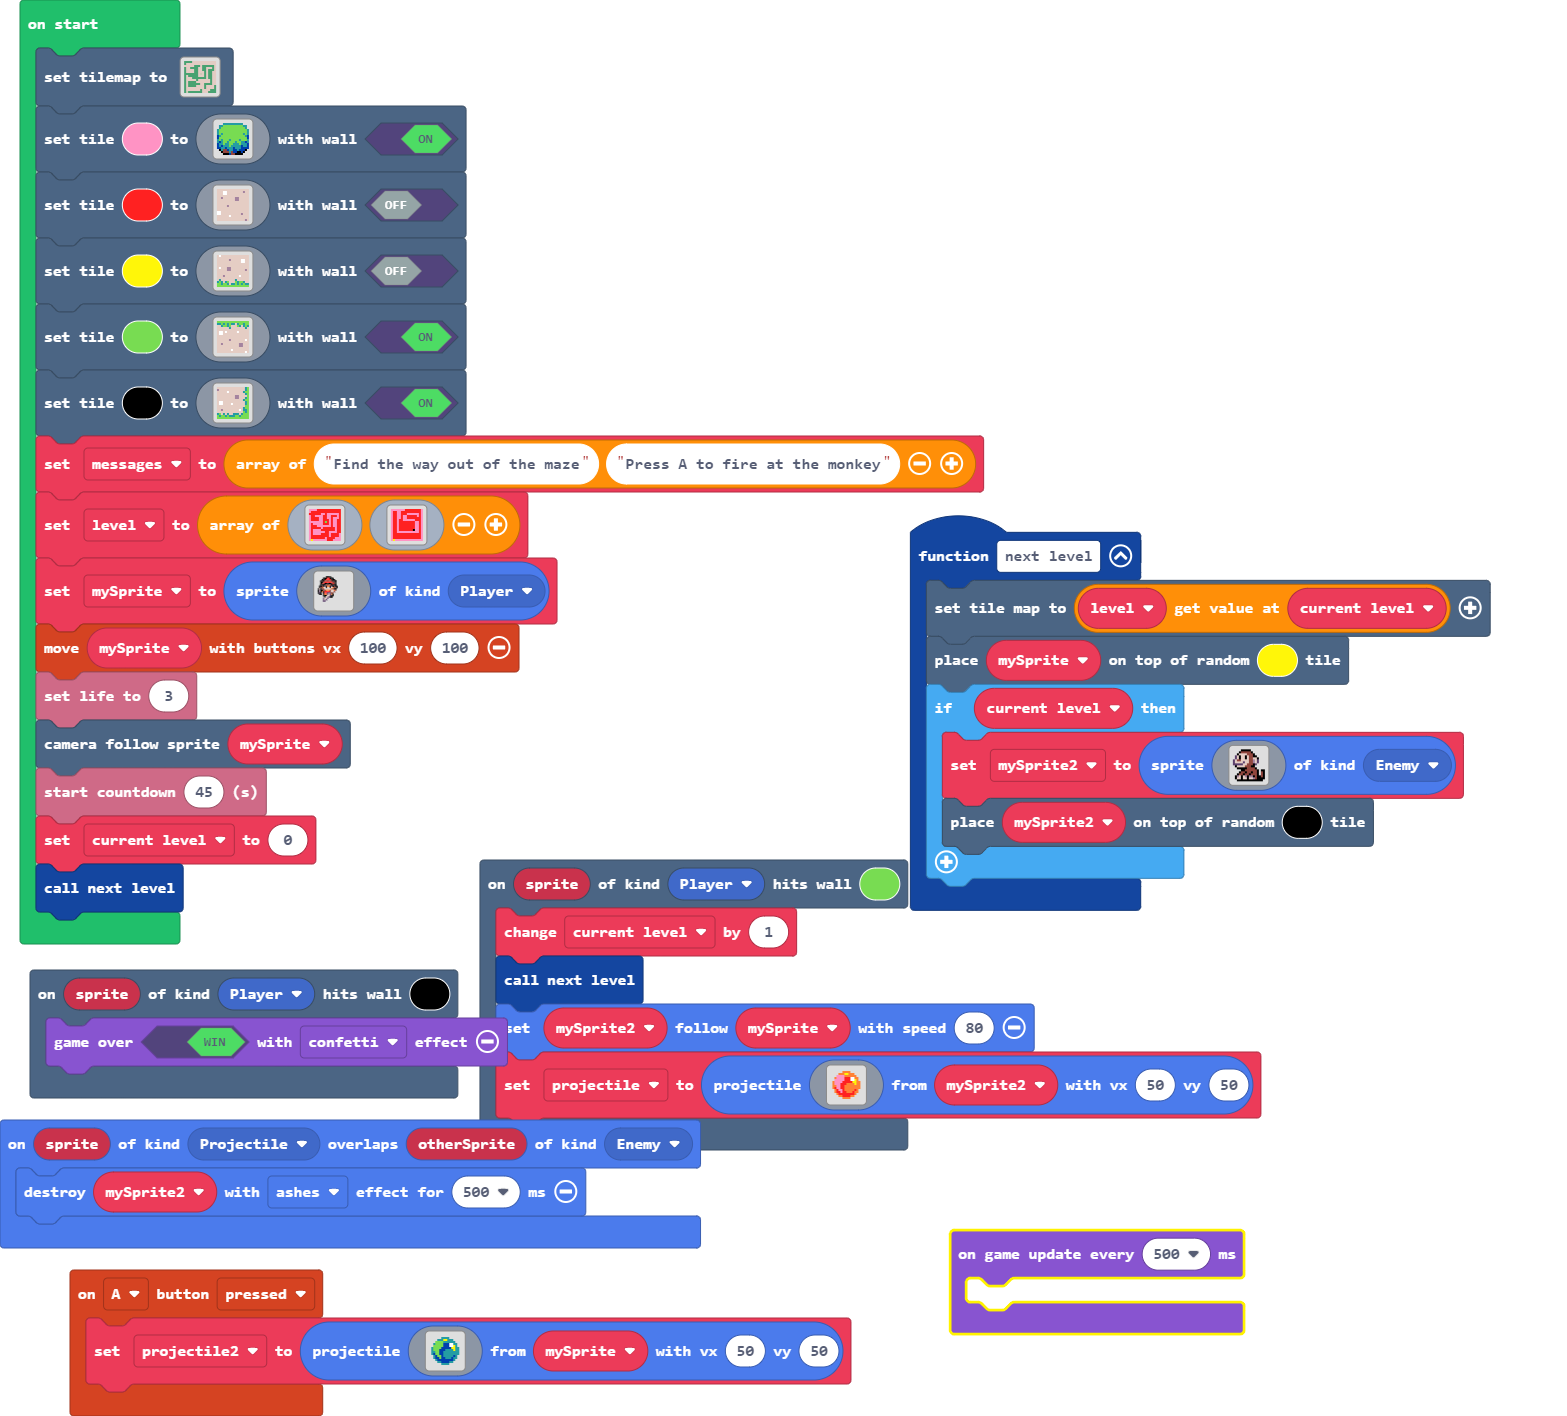
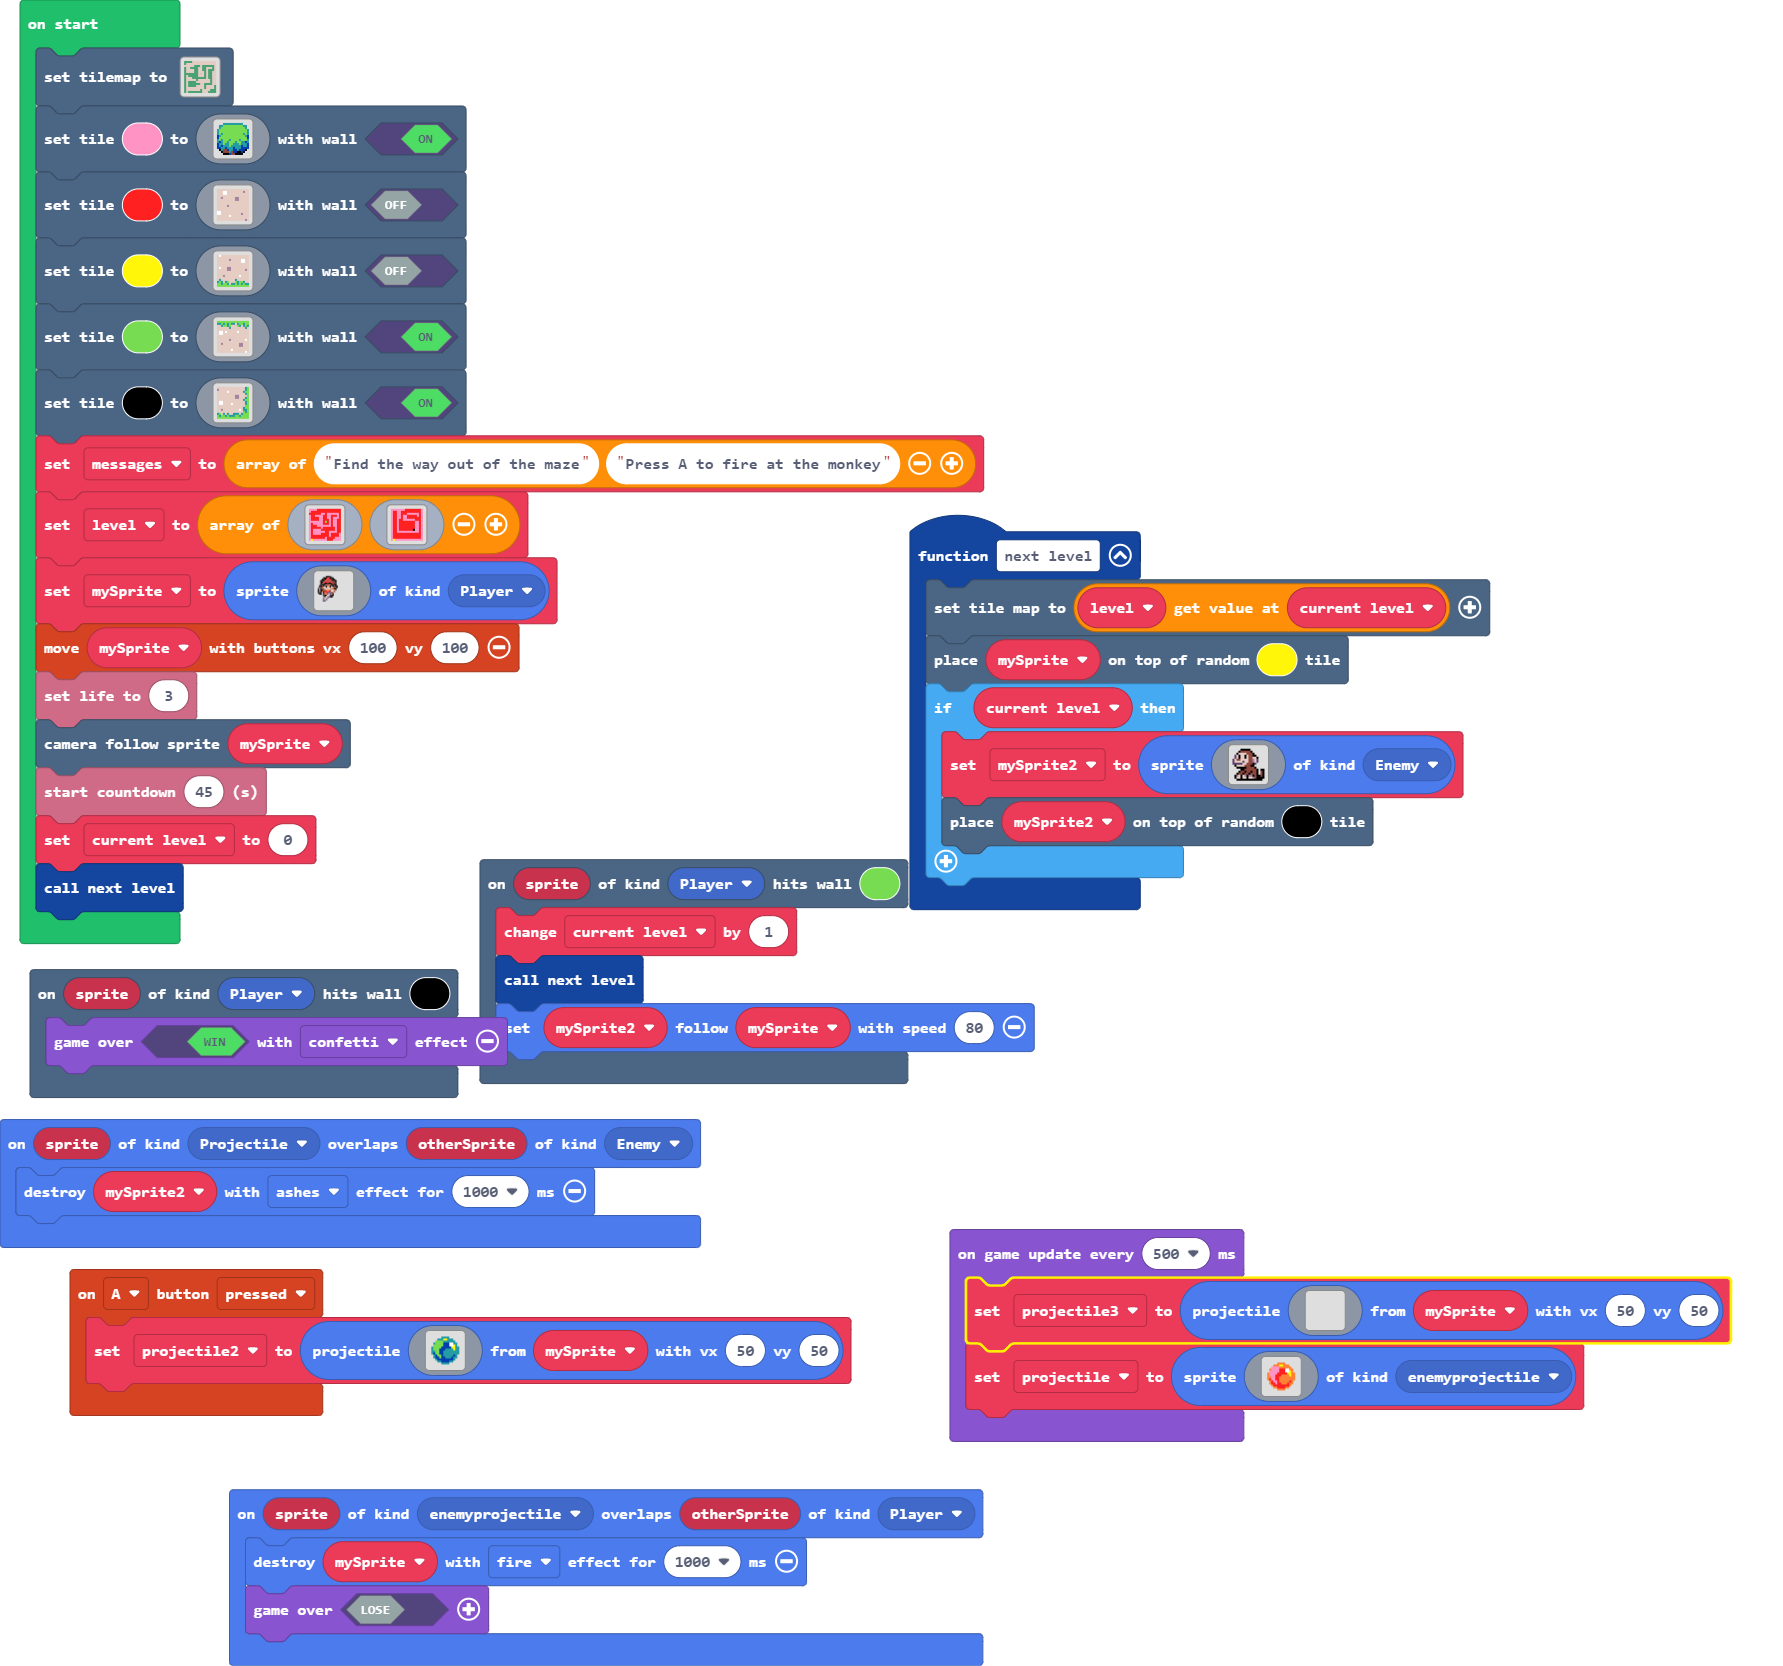
Update main.blocks, main.ts, images.g.jres, images.g.ts

diff --git a/main.ts b/main.ts
@@ -1,3 +1,6 @@
+namespace SpriteKind {
+    export const enemyprojectile = SpriteKind.create()
+}
 controller.A.onEvent(ControllerButtonEvent.Pressed, function () {
     projectile2 = sprites.createProjectileFromSprite(img`
         . . . . . . . . . . . . . . . . 
@@ -22,24 +25,6 @@ scene.onHitTile(SpriteKind.Player, 7, function (sprite) {
     current_level += 1
     next_level()
     mySprite2.follow(mySprite, 80)
-    projectile = sprites.createProjectileFromSprite(img`
-        . . . . . . . . . . . . . . . . 
-        . . . . . . 4 4 4 4 . . . . . . 
-        . . . . 4 4 4 5 5 4 4 4 . . . . 
-        . . . 3 3 3 3 4 4 4 4 4 4 . . . 
-        . . 4 3 3 3 3 2 2 2 1 1 4 4 . . 
-        . . 3 3 3 3 3 2 2 2 1 1 5 4 . . 
-        . 4 3 3 3 3 2 2 2 2 2 5 5 4 4 . 
-        . 4 3 3 3 2 2 2 4 4 4 4 5 4 4 . 
-        . 4 4 3 3 2 2 4 4 4 4 4 4 4 4 . 
-        . 4 2 3 3 2 2 4 4 4 4 4 4 4 4 . 
-        . . 4 2 3 3 2 4 4 4 4 4 2 4 . . 
-        . . 4 2 2 3 2 2 4 4 4 2 4 4 . . 
-        . . . 4 2 2 2 2 2 2 2 2 4 . . . 
-        . . . . 4 4 2 2 2 2 4 4 . . . . 
-        . . . . . . 4 4 4 4 . . . . . . 
-        . . . . . . . . . . . . . . . . 
-        `, mySprite2, 50, 50)
 })
 function next_level () {
     scene.setTileMap(level[current_level])
@@ -66,13 +51,18 @@ function next_level () {
         scene.placeOnRandomTile(mySprite2, 15)
     }
 }
+sprites.onOverlap(SpriteKind.enemyprojectile, SpriteKind.Player, function (sprite, otherSprite) {
+    mySprite.destroy(effects.fire, 1000)
+    game.over(false)
+})
 scene.onHitTile(SpriteKind.Player, 15, function (sprite) {
     game.over(true, effects.confetti)
 })
 sprites.onOverlap(SpriteKind.Projectile, SpriteKind.Enemy, function (sprite, otherSprite) {
-    mySprite2.destroy(effects.ashes, 500)
+    mySprite2.destroy(effects.ashes, 1000)
 })
 let projectile: Sprite = null
+let projectile3: Sprite = null
 let mySprite2: Sprite = null
 let projectile2: Sprite = null
 let current_level = 0
@@ -238,5 +228,40 @@ info.startCountdown(45)
 current_level = 0
 next_level()
 game.onUpdateInterval(500, function () {
-	
+    projectile3 = sprites.createProjectileFromSprite(img`
+        . . . . . . . . . . . . . . . . 
+        . . . . . . . . . . . . . . . . 
+        . . . . . . . . . . . . . . . . 
+        . . . . . . . . . . . . . . . . 
+        . . . . . . . . . . . . . . . . 
+        . . . . . . . . . . . . . . . . 
+        . . . . . . . . . . . . . . . . 
+        . . . . . . . . . . . . . . . . 
+        . . . . . . . . . . . . . . . . 
+        . . . . . . . . . . . . . . . . 
+        . . . . . . . . . . . . . . . . 
+        . . . . . . . . . . . . . . . . 
+        . . . . . . . . . . . . . . . . 
+        . . . . . . . . . . . . . . . . 
+        . . . . . . . . . . . . . . . . 
+        . . . . . . . . . . . . . . . . 
+        `, mySprite, 50, 50)
+    projectile = sprites.create(img`
+        . . . . . . . . . . . . . . . . 
+        . . . . . . 4 4 4 4 . . . . . . 
+        . . . . 4 4 4 5 5 4 4 4 . . . . 
+        . . . 3 3 3 3 4 4 4 4 4 4 . . . 
+        . . 4 3 3 3 3 2 2 2 1 1 4 4 . . 
+        . . 3 3 3 3 3 2 2 2 1 1 5 4 . . 
+        . 4 3 3 3 3 2 2 2 2 2 5 5 4 4 . 
+        . 4 3 3 3 2 2 2 4 4 4 4 5 4 4 . 
+        . 4 4 3 3 2 2 4 4 4 4 4 4 4 4 . 
+        . 4 2 3 3 2 2 4 4 4 4 4 4 4 4 . 
+        . . 4 2 3 3 2 4 4 4 4 4 2 4 . . 
+        . . 4 2 2 3 2 2 4 4 4 2 4 4 . . 
+        . . . 4 2 2 2 2 2 2 2 2 4 . . . 
+        . . . . 4 4 2 2 2 2 4 4 . . . . 
+        . . . . . . 4 4 4 4 . . . . . . 
+        . . . . . . . . . . . . . . . . 
+        `, SpriteKind.enemyprojectile)
 })

diff --git a/images.g.ts b/images.g.ts
@@ -111,24 +111,6 @@ c c c c c d d e e e f c . . . .
 . f d d f d d f d d b e f f f f 
 . . f f f f f f f f f f f f f . 
 `;
-            case "image7":return img`
-. . . . . . . . . . . . . . . . 
-. . . . . . 4 4 4 4 . . . . . . 
-. . . . 4 4 4 5 5 4 4 4 . . . . 
-. . . 3 3 3 3 4 4 4 4 4 4 . . . 
-. . 4 3 3 3 3 2 2 2 1 1 4 4 . . 
-. . 3 3 3 3 3 2 2 2 1 1 5 4 . . 
-. 4 3 3 3 3 2 2 2 2 2 5 5 4 4 . 
-. 4 3 3 3 2 2 2 4 4 4 4 5 4 4 . 
-. 4 4 3 3 2 2 4 4 4 4 4 4 4 4 . 
-. 4 2 3 3 2 2 4 4 4 4 4 4 4 4 . 
-. . 4 2 3 3 2 4 4 4 4 4 2 4 . . 
-. . 4 2 2 3 2 2 4 4 4 2 4 4 . . 
-. . . 4 2 2 2 2 2 2 2 2 4 . . . 
-. . . . 4 4 2 2 2 2 4 4 . . . . 
-. . . . . . 4 4 4 4 . . . . . . 
-. . . . . . . . . . . . . . . . 
-`;
             case "image8":return img`
 d d d d d d d d d d d d d d 6 7 
 b d d d d d d d d d d d d d 6 7 
@@ -208,6 +190,42 @@ fcf.f22cccee............
 ........................
 ........................
 ........................
+`;
+            case "image7":return img`
+. . . . . . . . . . . . . . . . 
+. . . . . . 4 4 4 4 . . . . . . 
+. . . . 4 4 4 5 5 4 4 4 . . . . 
+. . . 3 3 3 3 4 4 4 4 4 4 . . . 
+. . 4 3 3 3 3 2 2 2 1 1 4 4 . . 
+. . 3 3 3 3 3 2 2 2 1 1 5 4 . . 
+. 4 3 3 3 3 2 2 2 2 2 5 5 4 4 . 
+. 4 3 3 3 2 2 2 4 4 4 4 5 4 4 . 
+. 4 4 3 3 2 2 4 4 4 4 4 4 4 4 . 
+. 4 2 3 3 2 2 4 4 4 4 4 4 4 4 . 
+. . 4 2 3 3 2 4 4 4 4 4 2 4 . . 
+. . 4 2 2 3 2 2 4 4 4 2 4 4 . . 
+. . . 4 2 2 2 2 2 2 2 2 4 . . . 
+. . . . 4 4 2 2 2 2 4 4 . . . . 
+. . . . . . 4 4 4 4 . . . . . . 
+. . . . . . . . . . . . . . . . 
+`;
+            case "image12":return img`
+. . . . . . . . . . . . . . . . 
+. . . . . . . . . . . . . . . . 
+. . . . . . . . . . . . . . . . 
+. . . . . . . . . . . . . . . . 
+. . . . . . . . . . . . . . . . 
+. . . . . . . . . . . . . . . . 
+. . . . . . . . . . . . . . . . 
+. . . . . . . . . . . . . . . . 
+. . . . . . . . . . . . . . . . 
+. . . . . . . . . . . . . . . . 
+. . . . . . . . . . . . . . . . 
+. . . . . . . . . . . . . . . . 
+. . . . . . . . . . . . . . . . 
+. . . . . . . . . . . . . . . . 
+. . . . . . . . . . . . . . . . 
+. . . . . . . . . . . . . . . . 
 `;
         }
         return null;
